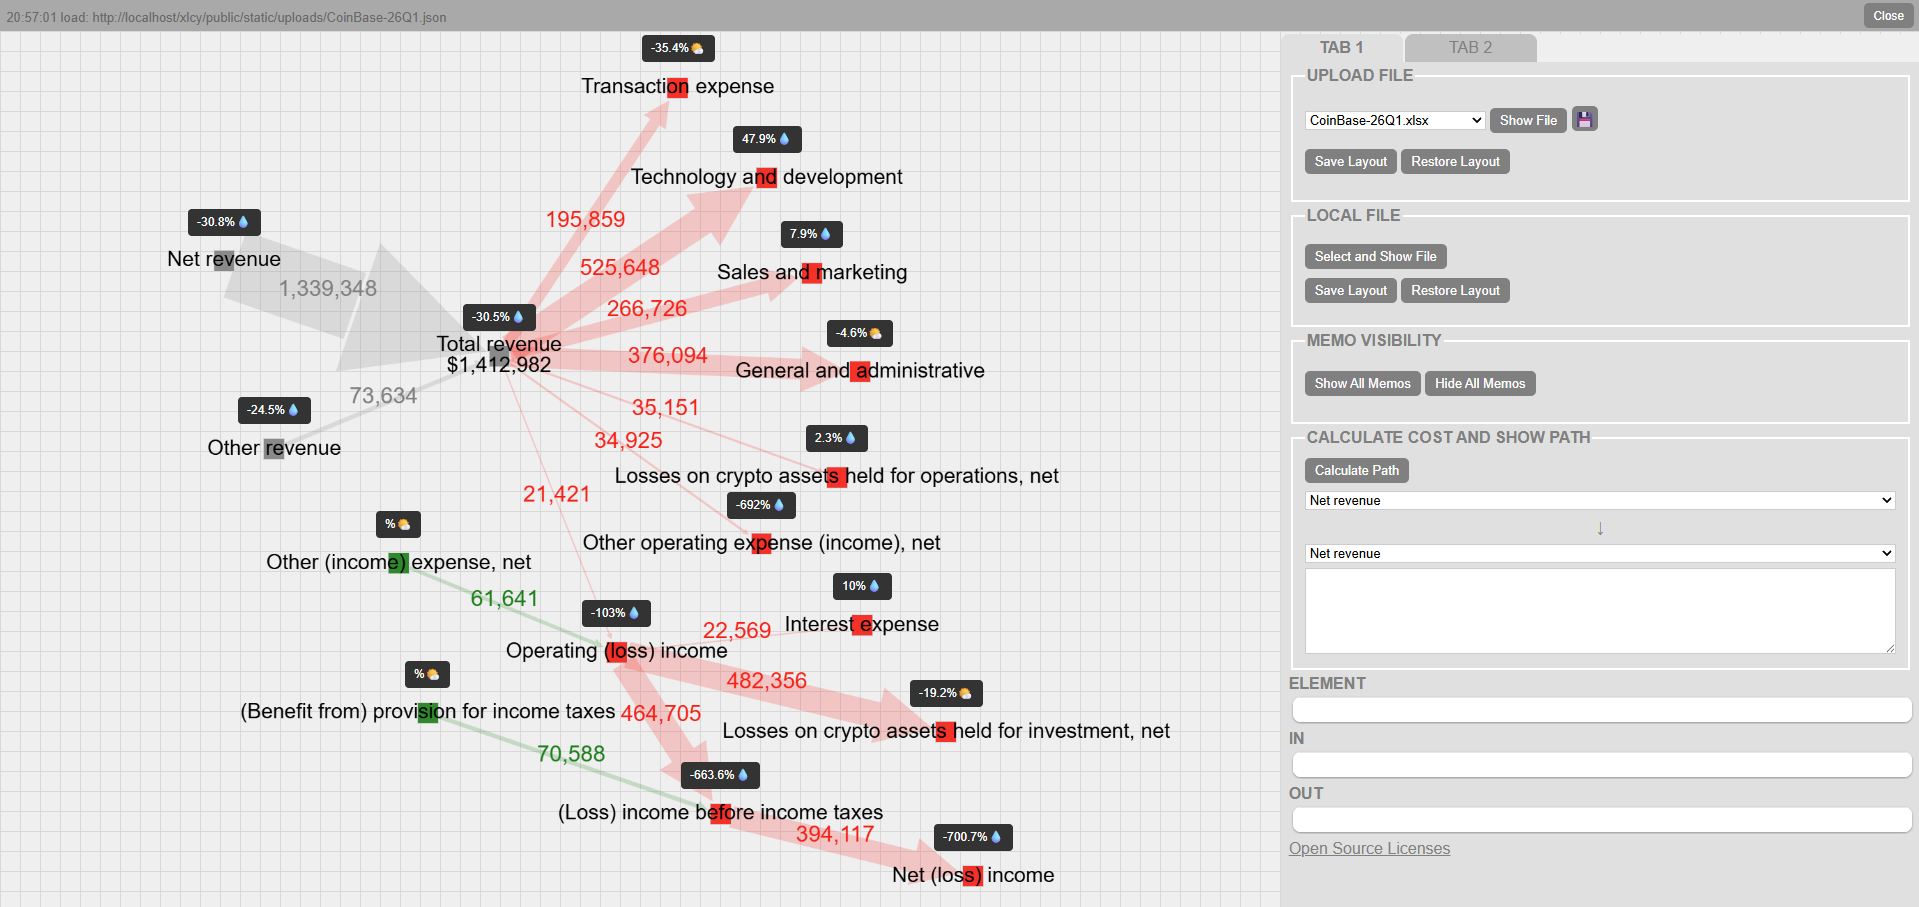
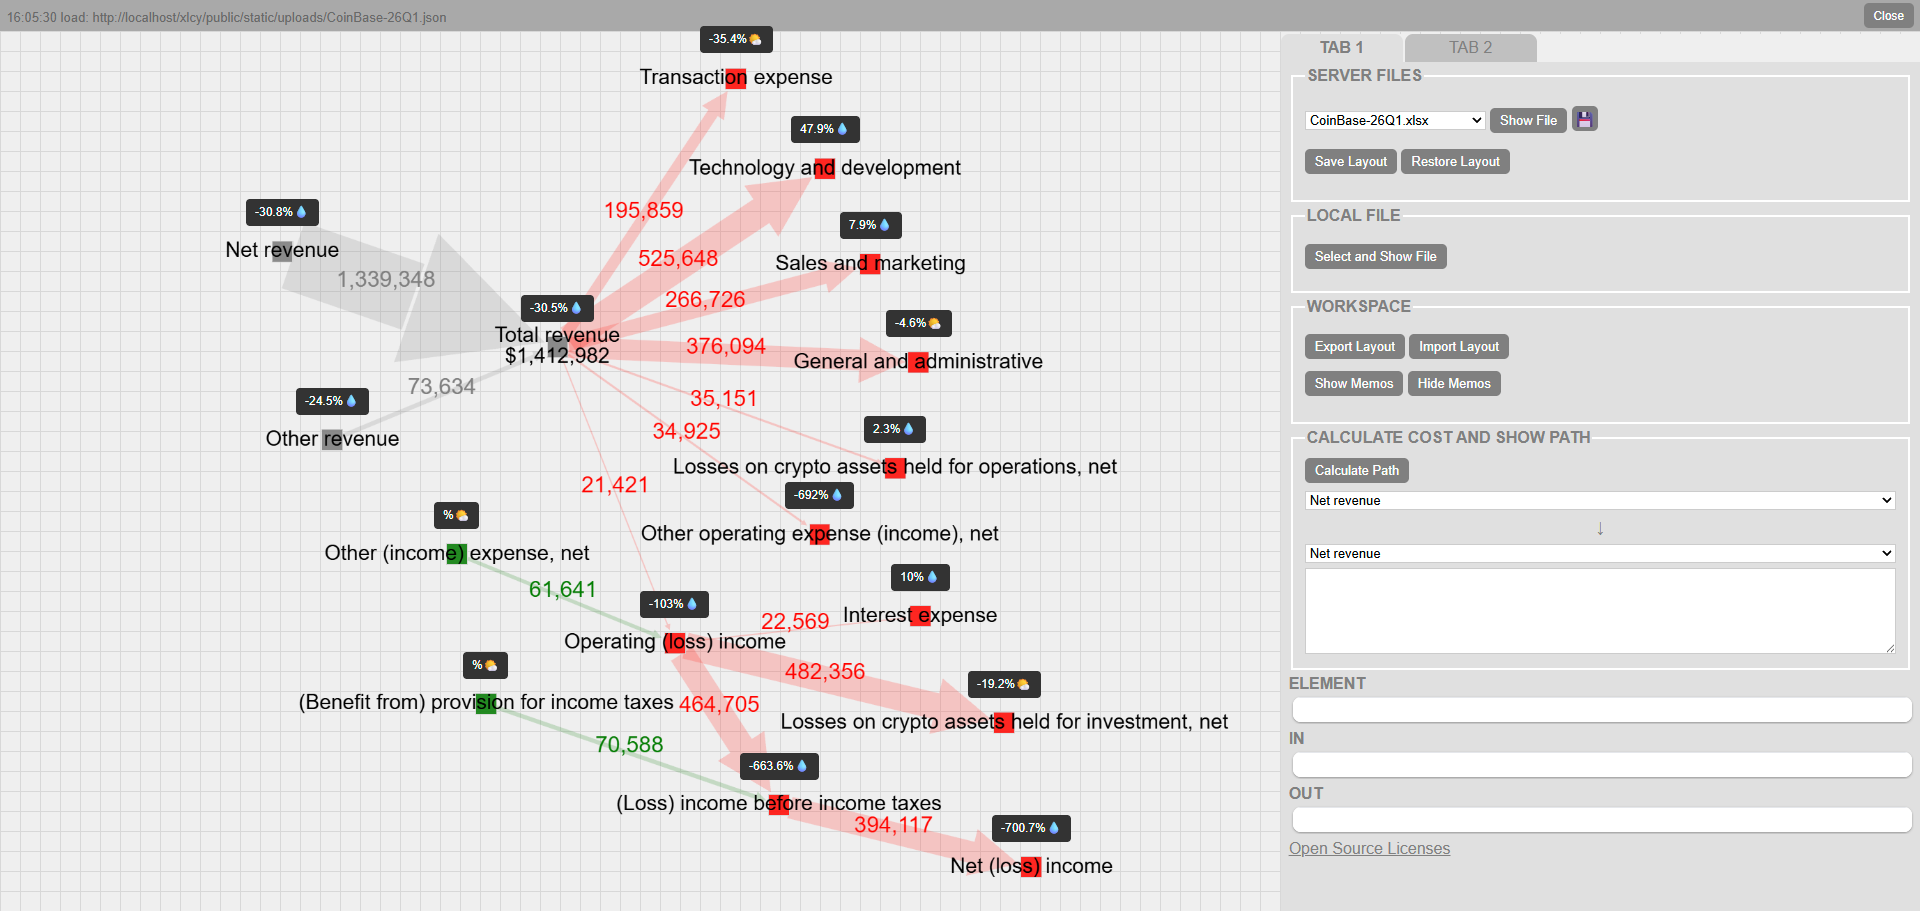
feat(ui): rename remote file handling to server file flow
Update beginDrawCytoscape to use isServer and preserve the selected server file name when restoring layouts. Refresh related UI labels from REMOTE FILE to SERVER FILES and from Japanese menu text to English, rename the Japanese docs file, and adjust the Windows launcher to open index.php directly.

diff --git a/public/static/js/entry.js b/public/static/js/entry.js
@@ -445,7 +445,7 @@ function appendOption() {
  * @param {File} file - The file to be processed.
  * @return {Promise<void>} A Promise that resolves when the processing is complete, return is not necessary
  */
-async function beginDrawCytoscape(file, isRemote = false) {
+async function beginDrawCytoscape(file, isServer = false) {
 
     const data = await file.arrayBuffer();
     workbook = XLSX.read(data, {
@@ -463,10 +463,14 @@ async function beginDrawCytoscape(file, isRemote = false) {
     appendOption();
     cyCreateTippy();
 
-    strExcelName = _.split(file.name, '.', 1);
+    if (isServer) {
+        strExcelName = _.split(xlsx_file.value, '.', 1);
+    } else {
+        strExcelName = _.split(file.name, '.', 1);
+    }
     document.getElementById('edge_type').value = 'bezier';
 
-    if (isRemote) {
+    if (isServer) {
         // Automatically restore layout if it exists
         const strJsonName = `${_.split(xlsx_file.value, '.', 1)}.json`;
         const url = `./static/uploads/${strJsonName}`;